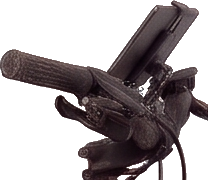
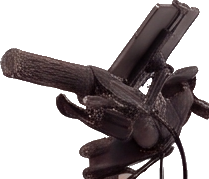
Pedalarme, klinge, pedaler og animeret kæde drejer med scrollen (stel uden krank fra v5)

diff --git a/index.html b/index.html
@@ -31,6 +31,7 @@
   #bike{position:absolute;inset:0;transform-style:preserve-3d;will-change:transform}
   #bike .ly{position:absolute;display:block;transform-origin:50% 50%;will-change:transform;
     filter:drop-shadow(0 14px 18px rgba(0,0,0,.5));user-select:none;-webkit-user-drag:none;pointer-events:none}
+  #chain{position:absolute;inset:0;width:100%;height:100%;overflow:visible;pointer-events:none;filter:drop-shadow(0 6px 8px rgba(0,0,0,.45))}
   #shadow{position:absolute;left:5%;width:88%;top:88%;height:5%;border-radius:50%;
     background:radial-gradient(closest-side,rgba(0,0,0,.75),rgba(0,0,0,0));transform:translateZ(-40px)}
   #book{position:absolute;left:54%;top:41%;width:9%;aspect-ratio:1.25/1;opacity:0;transform-origin:50% 100%;will-change:transform,opacity;
@@ -95,6 +96,13 @@
         <div id="book">Speciale</div>
         <img class="ly" data-k="rear"    src="assets/lag/rear.webp"    alt="">
         <img class="ly" data-k="front"   src="assets/lag/front.webp"   alt="">
+        <svg id="chain" viewBox="40 440 1980 1130" aria-hidden="true">
+          <path id="chain-base" fill="none" stroke="#1c1b1a" stroke-width="9" stroke-linejoin="round"/>
+          <path id="chain-links" fill="none" stroke="#6d675c" stroke-width="5" stroke-dasharray="6 5"/>
+        </svg>
+        <img class="ly" data-k="krank"   src="assets/lag/krank.webp"   alt="">
+        <img class="ly" data-k="pedal_o" src="assets/lag/pedal_o.webp" alt="">
+        <img class="ly" data-k="pedal_n" src="assets/lag/pedal_n.webp" alt="">
         <img class="ly" data-k="batteri" src="assets/lag/batteri.webp" alt="">
         <img class="ly" data-k="styr"    src="assets/lag/styr.webp"    alt="">
       </div>
@@ -145,7 +153,8 @@
 (() => {
   // Position og størrelse (px i originalbilledet) for hvert lag. Verdenen er 1980 x 1130 px, startende i (40, 440).
   const X0 = 40, Y0 = 440, WW = 1980, HH = 1130;
-  const L = { stel:[49,575,1755,970], rear:[82,943,522,524], front:[1557,1042,442,444], batteri:[100,801,385,79], styr:[822,470,208,180] };
+  const L = { stel:[49,575,1751,970], rear:[82,943,522,524], front:[1557,1042,442,444], batteri:[102,801,383,79], styr:[821,471,209,179],
+             krank:[632,1084,210,298], pedal_o:[724,1055,94,39], pedal_n:[659,1378,101,53] }; // krank-gruppen er flyttet (+32,+8) så aksen sidder i krankhuset
   const el = {};
   document.querySelectorAll('.ly').forEach(img => {
     const [x,y,w,h] = L[img.dataset.k];
@@ -153,6 +162,10 @@
     img.style.width = (w/WW*100)+'%';     img.style.height = (h/HH*100)+'%';
     el[img.dataset.k] = img;
   });
+  { const [x,y,w,h] = L.krank; el.krank.style.transformOrigin = ((732-x)/w*100)+'% '+((1243-y)/h*100)+'%'; }
+  const chainD = 'M342 1127 L732 1173 A70 70 0 0 1 732 1313 L342 1283 A78 78 0 0 1 342 1127 Z';
+  const chainLinks = document.getElementById('chain-links');
+  document.getElementById('chain-base').setAttribute('d', chainD); chainLinks.setAttribute('d', chainD);
   const bike = document.getElementById('bike'), book = document.getElementById('book');
   const labels = [...document.querySelectorAll('.label')];
   const barEl = document.getElementById('bar'), h1 = document.getElementById('h1');
@@ -204,8 +217,15 @@
     el.styr.style.transform = T(0, ks*8*u*mx, -ks*10*u, ks*180, ks*10);
 
     const kf = ease(win(p,...W.front));
-    el.front.style.transform = `translate3d(${kf*22*u*mx}px,${kf*3*u}px,${kf*120}px) rotate(${p*1500}deg)`;
-    el.rear.style.transform = `rotate(${p*1100}deg)`;
+    el.front.style.transform = `translate3d(${kf*22*u*mx}px,${kf*3*u}px,${kf*120}px) rotate(${p*1275}deg)`;
+    el.rear.style.transform = `rotate(${p*1080}deg)`;
+
+    // Pedalarme, klinge og pedaler drejer om krankhuset. Pedalerne holder sig vandrette.
+    const th = p*1200, rad = th*Math.PI/180, c = Math.cos(rad), sn = Math.sin(rad), k = rw/WW;
+    el.krank.style.transform = `rotate(${th}deg)`;
+    for (const [n,vx,vy] of [['pedal_o',39,-169],['pedal_n',-23,161]])
+      el[n].style.transform = `translate(${(vx*c-vy*sn-vx)*k}px,${(vx*sn+vy*c-vy)*k}px)`;
+    chainLinks.style.strokeDashoffset = String(-70*rad); // kæden følger klingen (radius 70)
 
     const idx = p<.08 ? -1 : p<.30 ? 0 : p<.50 ? 1 : p<.70 ? 2 : 3;
     labels.forEach((l,i) => l.classList.toggle('on', i===idx));
